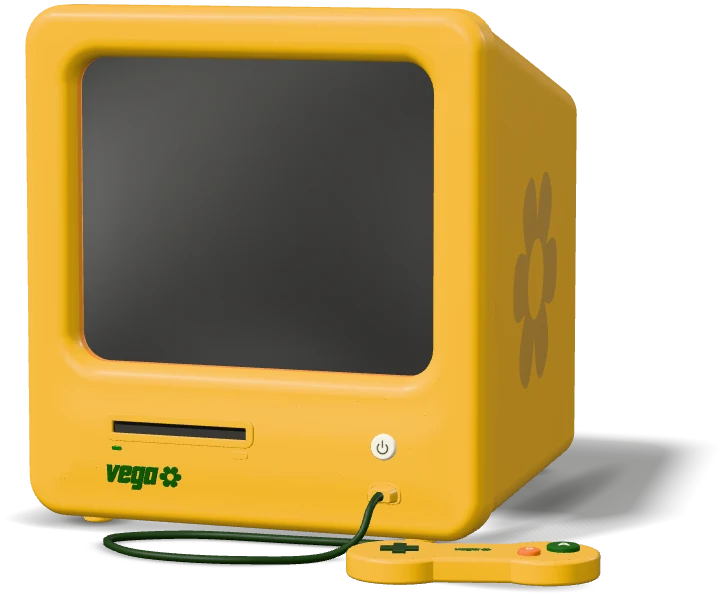
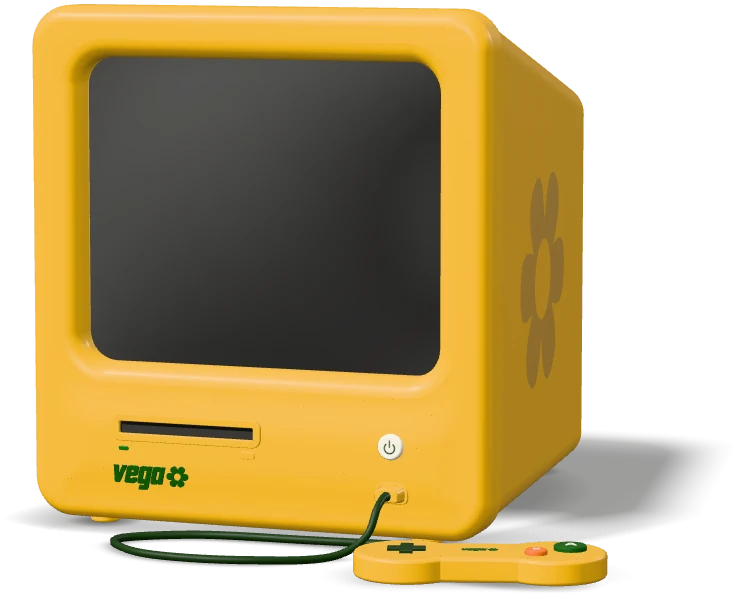
A heavier turn toward the mouse, and glass with sharp reflections
- The monitor chases the pointer through two damped follows (the aim
  eases over 0.06 s, the turn follows with a time constant of 0.24 s),
  frame-rate independent with dt clamped to 1/30 s, fitted to the
  reference site's monitor and scaled for our smaller range; it eases
  square as the dive starts and does not follow with reduced motion
- The screen's glass reflects its own unblurred, furniture-free copy of
  the room at roughness 0.02, so it shows crisp reflections rather than
  a plastic haze; the switched-off tube is nearly even and the recess
  walls round the screen are the casing's yellow
- A baked contact band along the monitor's right foot, which read as a
  dark streak, is gone
- Posters re-rendered

diff --git a/src/monitor/hero.ts b/src/monitor/hero.ts
@@ -35,8 +35,16 @@ import { DIMS, type Slot } from './spec';
  * wait; the line faint then bright, thin then thick (fractions of the screen height).
  */
 export const POWER = { grow: 170, brighten: 40, open: 170, ready: 70, faint: 0.45, bright: 1.6, thin: 0.0025, thick: 0.007 } as const;
-/** The turn toward the pointer, degrees, and its ease (a time constant of 130 ms settles in ~400 ms). */
-const PARALLAX = { yaw: 8, pitch: 4, tau: 0.13 } as const;
+/**
+ * The turn toward the pointer, degrees, and how it chases the pointer: slow and heavy, like the reference
+ * site's monitor. Two damped follows in a row, each frame-rate independent (x += (to − x)(1 − e^(−dt/τ))):
+ * the aim eases toward the pointer (`lead`, s), and the turn follows the aim (`tau`, s) — so it eases in
+ * and out, with no overshoot. Measured against the reference (a jump across the page, 2026-11-10): its
+ * monitor swings about ±11° to our ±8°, so our time constants are its fit (0.08 s and 0.32 s) scaled by
+ * 8 / 11, for the same speed in degrees a second over our smaller range. `maxDt` keeps a long frame (a
+ * tab switch) from jolting it.
+ */
+const PARALLAX = { yaw: 8, pitch: 4, lead: 0.06, tau: 0.24, maxDt: 1 / 30 } as const;
 /** Touch screens: a slow idle sway instead, degrees and seconds per cycle. */
 const SWAY = { yaw: 2, pitch: 1, yawPeriod: 7, pitchPeriod: 9.5 } as const;
 /** Hovering PRESS START brightens the screen 10 %. */
@@ -216,6 +224,8 @@ export async function createHero(canvas: HTMLCanvasElement, context: WebGL2Rende
   const shadowTurn = new Quaternion(0, 0, 0, 0);
   let target = { yaw: 0, pitch: 0 };
   let turn = { yaw: 0, pitch: 0 };
+  /** The aim: the pointer's target, eased (the first of the two follows). */
+  let aim = { yaw: 0, pitch: 0 };
   let hoverTarget = 1;
   let hoverB = 1;
   /**
@@ -352,7 +362,8 @@ export async function createHero(canvas: HTMLCanvasElement, context: WebGL2Rende
       } else texture.needsUpdate = true;
     },
     pointer(nx, ny = 0) {
-      target = nx === null ? { yaw: 0, pitch: 0 } : { yaw: PARALLAX.yaw * nx, pitch: PARALLAX.pitch * ny };
+      // with reduced motion the monitor does not follow the pointer at all
+      target = nx === null || still.matches ? { yaw: 0, pitch: 0 } : { yaw: PARALLAX.yaw * nx, pitch: PARALLAX.pitch * ny };
     },
     sway(on) {
       swaying = on;
@@ -388,13 +399,20 @@ export async function createHero(canvas: HTMLCanvasElement, context: WebGL2Rende
       const dt = last < 0 ? 0 : Math.min(0.1, Math.max(0, (now - last) / 1000));
       last = now;
 
-      // ── The turn: toward the pointer, or the idle sway — settling to nothing as the camera dives ──
-      if (swaying) {
+      // ── The turn: chasing the pointer on a critically damped spring (or, on touch screens, the idle sway as
+      //    it is) — and once the dive starts, easing to the dive's starting pose (square), never snapping ──
+      if (swaying && !still.matches) {
         const s = now / 1000;
-        target = { yaw: SWAY.yaw * Math.sin((2 * Math.PI * s) / SWAY.yawPeriod), pitch: SWAY.pitch * Math.sin((2 * Math.PI * s) / SWAY.pitchPeriod) };
+        turn = { yaw: SWAY.yaw * Math.sin((2 * Math.PI * s) / SWAY.yawPeriod), pitch: SWAY.pitch * Math.sin((2 * Math.PI * s) / SWAY.pitchPeriod) };
+        aim = { ...turn };
+      } else {
+        const to = p > 0 || still.matches ? { yaw: 0, pitch: 0 } : target;
+        const sdt = Math.min(PARALLAX.maxDt, dt);
+        const k1 = 1 - Math.exp(-sdt / PARALLAX.lead);
+        const k2 = 1 - Math.exp(-sdt / PARALLAX.tau);
+        aim = { yaw: aim.yaw + (to.yaw - aim.yaw) * k1, pitch: aim.pitch + (to.pitch - aim.pitch) * k1 };
+        turn = { yaw: turn.yaw + (aim.yaw - turn.yaw) * k2, pitch: turn.pitch + (aim.pitch - turn.pitch) * k2 };
       }
-      const a = 1 - Math.exp(-dt / PARALLAX.tau);
-      turn = { yaw: turn.yaw + (target.yaw - turn.yaw) * a, pitch: turn.pitch + (target.pitch - turn.pitch) * a };
       const settle = 1 - smooth(p, ENTER.parallaxOut);
       qYaw.setFromAxisAngle(Y, turn.yaw * settle * DEG);
       qPitch.setFromAxisAngle(right, turn.pitch * settle * DEG);

diff --git a/src/monitor/index.ts b/src/monitor/index.ts
@@ -7,9 +7,8 @@
  *
  * Shadows: one shadow-casting light, high above and a little in front, from the key light's side, adds
  * no light of its own (the plastic's shading is the key's, swept against the reference) and casts one
- * soft shadow (VSM, a 512² map blurred wide, its camera fitted tight round the monitor, the only caster:
- * the controller and the cable lie on the floor, grounded by baked contact darkening) onto a
- * ShadowMaterial floor: short, back and to the right as in the
+ * soft shadow (VSM, a 512² map blurred wide, its camera fitted tight round the monitor, the controller
+ * and the cable, the only casters) onto a ShadowMaterial floor: short, back and to the right as in the
  * reference, so it stays inside a phone's width (anything behind the monitor lands right of it on the
  * page). The map is redrawn only when asked (renderer.shadowMap.needsUpdate): nothing moves but the
  * monitor's turn, so the hero redraws it while the monitor turns, and never in the dive.
@@ -172,6 +171,12 @@ function* steps(canvas: HTMLCanvasElement, context: WebGL2RenderingContext): Gen
   renderer.setRenderTarget(null);
   yield compiled.finally(() => roomTarget.dispose());
   const env = pmrem.fromScene(room, 0.04).texture;
+  // …and the same room unblurred, for the glass alone: blurred, even a perfectly smooth pane can only show
+  // soft blobs — the look of glossy plastic. Sharp, it shows the room's lights as crisp reflections. Its
+  // furniture (a few boxes on the floor) is taken out first: sharp, the curved glass bent one into a grey
+  // dome across the bottom of the screen.
+  room.children.filter((o) => (o as { isInstancedMesh?: boolean }).isInstancedMesh).forEach((o) => room.remove(o));
+  const sharpEnv = pmrem.fromScene(room, 0).texture;
   pmrem.dispose();
   room.dispose();
   // A dim room for the plastic, so the clearcoat carries highlights rather than a white sheen and the
@@ -198,7 +203,8 @@ function* steps(canvas: HTMLCanvasElement, context: WebGL2RenderingContext): Gen
   const parts = buildMonitor(
     {
       plastic: color('--color-florets-yellow').lerp(color('--color-yellow-500'), 0.35),
-      bevel: color('--color-yellow-500'),
+      // the recess walls round the screen: the casing's own yellow (an orange edge read as a separate part)
+      bevel: color('--color-florets-yellow').lerp(color('--color-yellow-500'), 0.35),
       slot: color('--color-grey-700'),
       button: color('--color-daisy-white'),
       shadow: color('--color-outline-black'),
@@ -249,13 +255,13 @@ function* steps(canvas: HTMLCanvasElement, context: WebGL2RenderingContext): Gen
     cam.far = -lo.z + 3;
     cam.updateProjectionMatrix();
   }
-  // The glass gets the room directly: a material on scene.environment has its envMapIntensity
-  // overwritten by scene.environmentIntensity, and the pane needs a much stronger reflection.
-  parts.materials.glass.envMap = env;
+  // The glass gets the room directly — the sharp one: a material on scene.environment has its
+  // envMapIntensity overwritten by scene.environmentIntensity, and the pane needs a much stronger reflection.
+  parts.materials.glass.envMap = sharpEnv;
   parts.materials.glass.envMapIntensity = 2.2;
-  parts.materials.glass.roughness = 0.22;
-  // turned so the room's bright panel lands as a soft sheet in the glass's upper left, as in the reference image
-  parts.materials.glass.envMapRotation.set(0.45, 5.2, 0);
+  // smooth, as glass is: the room's lights show in it as crisp reflections, bent by its bulge
+  parts.materials.glass.roughness = 0.02;
+  parts.materials.glass.envMapRotation.set(0.45, 5.3, 0);
   yield;
 
   const camera = new PerspectiveCamera(FOV, 1, 0.02, 40);
@@ -463,6 +469,7 @@ function* steps(canvas: HTMLCanvasElement, context: WebGL2RenderingContext): Gen
         for (const m of mats) m.dispose();
       });
       env.dispose();
+      sharpEnv.dispose();
       renderer.dispose();
     },
   };

diff --git a/src/monitor/build.ts b/src/monitor/build.ts
@@ -700,10 +700,8 @@ export function buildMonitor(colors: MonitorColors, screenMaterial: Material, da
     color: colors.shadow,
     map: contactTexture(rect, [
       // the body's underside, just above the floor: a darkening within its footprint, leaning to the side
-      // away from the light (none spills onto the lit left), and a dense band along the right side's foot,
-      // where the cast shadow begins
+      // away from the light (none spills onto the lit left)
       { x: 0.04, z: -DEPTH / 2 - 0.02, rx: 0.44, rz: 0.52, stops: [[0, 0.24], [0.78, 0.18], [1, 0]] },
-      { x: W / 2 - F.step * 2, z: -DEPTH / 2 - 0.04, rx: 0.07, rz: 0.5, stops: [[0, 0.34], [0.6, 0.2], [1, 0]] },
       foot(-ft.x, -ft.zFront),
       foot(ft.x, -ft.zFront),
       foot(-backX, -ft.zBack),
@@ -727,10 +725,8 @@ export function buildMonitor(colors: MonitorColors, screenMaterial: Material, da
   const contact = new Mesh(contactGeo, contactMat);
   contact.renderOrder = -1;
 
-  // The shadow: only the monitor's outer shapes cast, only the floor takes it. The controller and the cable
-  // lie on the floor and are grounded by the contact darkening: cast too, inside the monitor's soft shadow
-  // so near the floor, they made VSM light a pale halo round them (its light bleeding).
-  const casters = [frame, casing, front, step, back, ...feet];
+  // The shadow: only the outer shapes cast (the monitor, the controller, the cable), only the floor takes it.
+  const casters = [frame, casing, front, step, back, ...feet, ...remote.meshes];
   for (const m of casters) m.castShadow = true;
 
   const body = new Group();

diff --git a/src/monitor/poster.ts b/src/monitor/poster.ts
@@ -1,21 +1,21 @@
 /**
  * The monitor posters, public/monitor/monitor-{off,on}.webp: renders of src/monitor at rest, square to
- * the world, with its controller, cable and shadow (the screen off, and on with the game's screen frame
+ * the world, with its controller, cable and shadows (the screen off, and on with the game's screen frame
  * at t = 0), shown until the 3D takes over and, screen on, wherever there is no 3D. Measured when they
  * were rendered (at 1440 × 900, device pixel ratio 2, straight from the 3D's transparent buffer), as
  * fractions of the slot — the box the monitor stands in at rest, which the 3D is framed on too.
  */
 export const POSTER = {
   /** The image, px. */
-  w: 724,
-  h: 597,
+  w: 739,
+  h: 599,
   /** The slot's height ÷ width. */
   slotAspect: 0.8872,
   /** The image's box round the slot: left and width as fractions of the slot's width, top and height of its height. */
-  left: -0.0161,
+  left: -0.0271,
   top: -0.0124,
-  width: 1.1427,
-  height: 1.0621,
+  width: 1.1664,
+  height: 1.0657,
   /** The scanlines across the screen's height in the poster (PRESS START matches them where it is shown on it). */
   scanLines: 80.3534,
   /** The opening's corners (top left, top right, bottom right, bottom left), fractions of the slot. */

diff --git a/src/monitor/crt.ts b/src/monitor/crt.ts
@@ -233,7 +233,8 @@ void main() {
   // Power: the raster opens vertically from the line; outside it (and outside the barrel) is the tube.
   float open = 1.0 - smoothstep(uOpen * 0.5 - e.y, uOpen * 0.5 + e.y, abs(vUv.y - 0.5));
   float lit = raster * open * uOn;
-  vec3 tube = uTube * (1.0 + 0.35 * (1.0 - length(c) * 1.4));
+  // the off tube: dark and nearly even (a strong centre glow read as a plastic dome)
+  vec3 tube = uTube * (1.0 + 0.1 * (1.0 - length(c) * 1.4));
   col = mix(tube, col, lit);
   // The power-on line: a hard core with a soft halo, grown out from the centre to uLineW of the width.
   float ly = abs(vUv.y - 0.5);
